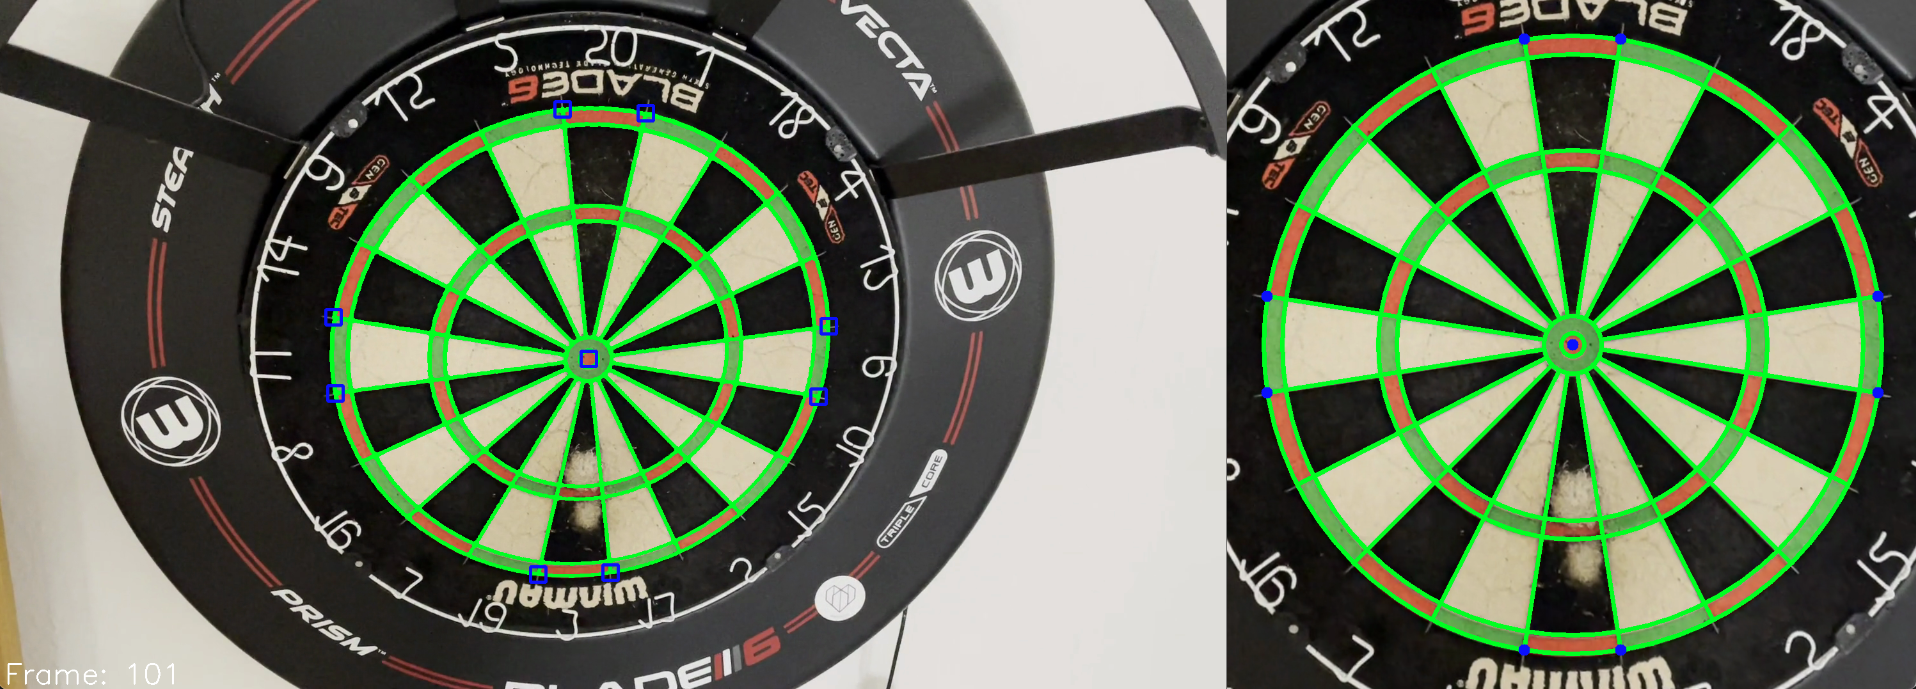
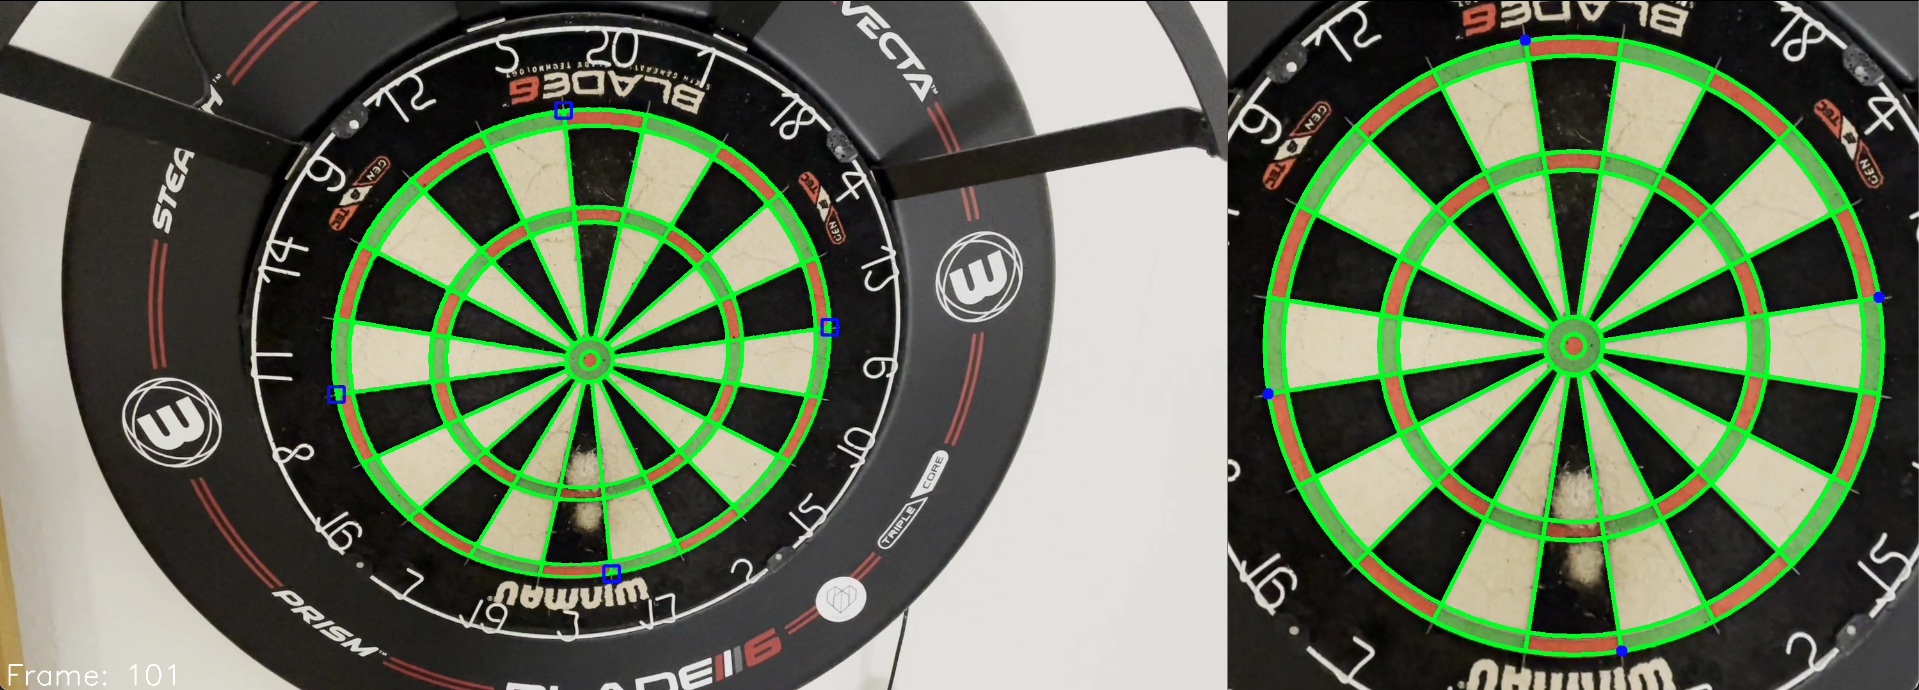
4 points homography

diff --git a/main.cpp b/main.cpp
@@ -11,7 +11,6 @@
 #include "Output.h"
 #include <Openvino.h>
 #include "cvui.h"
-#include "../../../../../Applications/Xcode.app/Contents/Developer/Platforms/MacOSX.platform/Developer/SDKs/MacOSX14.5.sdk/System/Library/Frameworks/CoreText.framework/Headers/CTFrame.h"
 
 cv::Point2i mousePos(-1, -1);
 
@@ -114,7 +113,6 @@ int main() {
         int db_count = 0;
         int total_count;
 
-        // Iterate over classMap to ensure order
         for (const auto& classPair : classMap) {
             int classID = classPair.first;
 
@@ -123,54 +121,35 @@ int main() {
             if (it != pointsBoundingBoxes.end()) {
                 const std::vector<cv::Point>& points = it->second;
 
-                // Add each point to srcPoints in cv::Point2f format
                 for (const auto& point : points) {
-                    srcPoints.emplace_back(point.x, point.y);
-
-                    // Now add the corresponding point to dstPoints
-                    if (classMap[classID] == "db") {
-                        dstPoints.push_back(board.getPositionBullseye());
-                        db_count = 1;
-                    }
-                    else if (classMap[classID] == "d20_p0") {
+                    // if (classMap[classID] == "db" && db_count == 0) {
+                    //     srcPoints.emplace_back(point.x, point.y);
+                    //     dstPoints.push_back(board.getPositionBullseye());
+                    //     db_count++;
+                    // }
+                    if ((classMap[classID] == "d20_p0" || classMap[classID] == "d20_p1") && d20_count == 0) {
                         std::array<cv::Point, 4> temp = board.getPointsFromField("d", 0);
-                        dstPoints.push_back(temp[0]);
-                        d20_count = 1;
+                        srcPoints.emplace_back(point.x, point.y);
+                        dstPoints.push_back(classMap[classID] == "d20_p0" ? temp[0] : temp[1]);
+                        d20_count++;
                     }
-                    else if (classMap[classID] == "d20_p1") {
-                        std::array<cv::Point, 4> temp = board.getPointsFromField("d", 0);
-                        dstPoints.push_back(temp[1]);
-                        d20_count = 1;
-                    }
-                    else if (classMap[classID] == "d6_p0") {
+                    else if ((classMap[classID] == "d6_p0" || classMap[classID] == "d6_p1") && d6_count == 0) {
                         std::array<cv::Point, 4> temp = board.getPointsFromField("d", 6);
-                        dstPoints.push_back(temp[0]);
-                        d6_count = 1;
+                        srcPoints.emplace_back(point.x, point.y);
+                        dstPoints.push_back(classMap[classID] == "d6_p0" ? temp[0] : temp[1]);
+                        d6_count++;
                     }
-                    else if (classMap[classID] == "d6_p1") {
-                        std::array<cv::Point, 4> temp = board.getPointsFromField("d", 6);
-                        dstPoints.push_back(temp[1]);
-                        d6_count = 1;
-                    }
-                    else if (classMap[classID] == "d3_p0") {
+                    else if ((classMap[classID] == "d3_p0" || classMap[classID] == "d3_p1") && d3_count == 0) {
                         std::array<cv::Point, 4> temp = board.getPointsFromField("d", 3);
-                        dstPoints.push_back(temp[0]);
-                        d3_count = 1;
+                        srcPoints.emplace_back(point.x, point.y);
+                        dstPoints.push_back(classMap[classID] == "d3_p0" ? temp[0] : temp[1]);
+                        d3_count++;
                     }
-                    else if (classMap[classID] == "d3_p1") {
-                        std::array<cv::Point, 4> temp = board.getPointsFromField("d", 3);
-                        dstPoints.push_back(temp[1]);
-                        d3_count = 1;
-                    }
-                    else if (classMap[classID] == "d11_p0") {
+                    else if ((classMap[classID] == "d11_p0" || classMap[classID] == "d11_p1") && d11_count == 0) {
                         std::array<cv::Point, 4> temp = board.getPointsFromField("d", 11);
-                        dstPoints.push_back(temp[0]);
-                        d11_count = 1;
-                    }
-                    else if (classMap[classID] == "d11_p1") {
-                        std::array<cv::Point, 4> temp = board.getPointsFromField("d", 11);
-                        dstPoints.push_back(temp[1]);
-                        d11_count = 1;
+                        srcPoints.emplace_back(point.x, point.y);
+                        dstPoints.push_back(classMap[classID] == "d11_p0" ? temp[0] : temp[1]);
+                        d11_count++;
                     }
                 }
             }
@@ -179,7 +158,7 @@ int main() {
         total_count = d20_count + d6_count + d3_count + d11_count + db_count;
 
         cv::Mat frameWarped(frame.size(), frame.type(), cv::Scalar(0));
-        if (total_count >=4) {
+        if (total_count >= 4) {
 
             // homography
             cv::Mat frameResized(cv::Size(sizeFrameWarped,sizeFrameWarped), frame.type());
@@ -248,19 +227,19 @@ int main() {
             cv::Scalar color = cv::Scalar(255, 0, 0);
 
             for (const auto& point : points) {
-                int boxWidth = 25;
-                int boxHeight = 25 ;
+                if (std::find(srcPoints.begin(), srcPoints.end(), cv::Point2f(point.x, point.y)) != srcPoints.end()) {
+                    int boxWidth = 25;
+                    int boxHeight = 25;
+                    cv::Point topLeft(point.x - boxWidth / 2, point.y - boxHeight / 2);
+                    cv::Point bottomRight(point.x + boxWidth / 2, point.y + boxHeight / 2);
+                    cv::rectangle(frame, topLeft, bottomRight, color, 3);
 
-                cv::Point topLeft(point.x - boxWidth / 2, point.y - boxHeight / 2);
-                cv::Point bottomRight(point.x + boxWidth / 2, point.y + boxHeight / 2);
-                cv::rectangle(frame, topLeft, bottomRight, color, 3);
+                    cv::Point textPosition(topLeft.x, topLeft.y - 5);
+                    // cv::putText(frame, classMap[classID], textPosition, cv::FONT_HERSHEY_SIMPLEX, 1, color, 3);
 
-                cv::Point textPosition(topLeft.x, topLeft.y - 5);  // Shift text slightly above the top-left point
-                // cv::putText(frame, classMap[classID], textPosition, cv::FONT_HERSHEY_SIMPLEX, 1, color, 3);
-                std::cout << point << std::endl;
+                }
             }
         }
-        std::cout << " " << std::endl;
 
 
         // create gui

diff --git a/README.md b/README.md
@@ -7,3 +7,4 @@
 ![](results/img6.png)
 ![](results/img7.png)
 ![](results/img8.png)
+![](results/img9.png)
